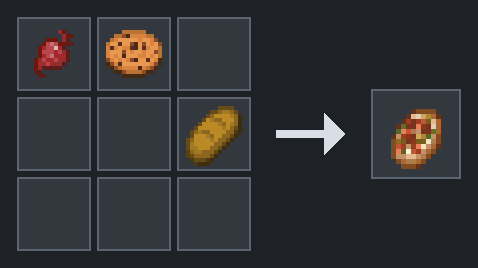
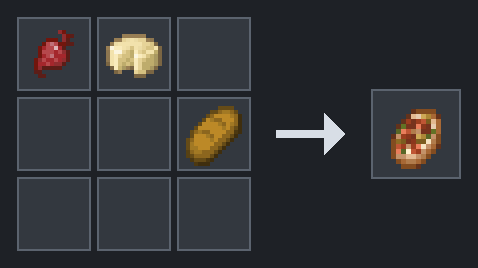
docs: publish guides 2026-08-21

Changed region(s): [[0.205, 0.0896, 0.3515, 0.2985]]

diff --git a/mod-guides/snax-kitchen.md b/mod-guides/snax-kitchen.md
@@ -5,7 +5,7 @@
 **Content bundle:** SnaxCraft Content
 **Role:** SnaxKitchen gates Kitchen recipe ingredients; SnaxCraft Content supplies all custom datapack and resource-pack features
 **License:** Matcha Flavoured assets and recipes by klei_wright, CC-BY-NC-SA 4.0  
-**Last verified:** 2026-08-20  
+**Last verified:** 2026-08-21  
 **Host:** Cybrancee **Stone** (4GB) -- see `dev/host-profile.md`
 
 ## Purpose
@@ -15,7 +15,8 @@ SnaxCraft Content is the combined datapack and resource pack for custom food, Qo
 ## Key recipes
 
 - **Flour from wheat:** Mill wheat into flour using custom recipes
-- **Jam from berries:** Craft sweet berry jam (shows as poisonous potato icon but renamed)
+- **Jam from berries:** Craft sweet berry jam (poisonous-potato carrier with snax model)
+- **Cheese / Milk Bottle:** Cookie and beetroot-soup carriers with snax models (Matcha painted those vanilla textures; we copy them under `snax:` so plain cookies/soup stay vanilla)
 - **Curry cooking:** Smelt uncooked curry into cooked meals
 - **Gravel from cobble:** Blast furnace cobblestone/deepslate into gravel
 - **Sand from gravel:** Blast gravel into sand

diff --git a/guide/snaxcraft-kitchen.md b/guide/snaxcraft-kitchen.md
@@ -2,7 +2,7 @@
 
 **Edition:** Java  
 **Version:** 26.2 Paper  
-**Last verified:** 2026-08-20
+**Last verified:** 2026-08-21
 **Applies to:** snaxcraft server content
 
 ## How to use this cookbook
